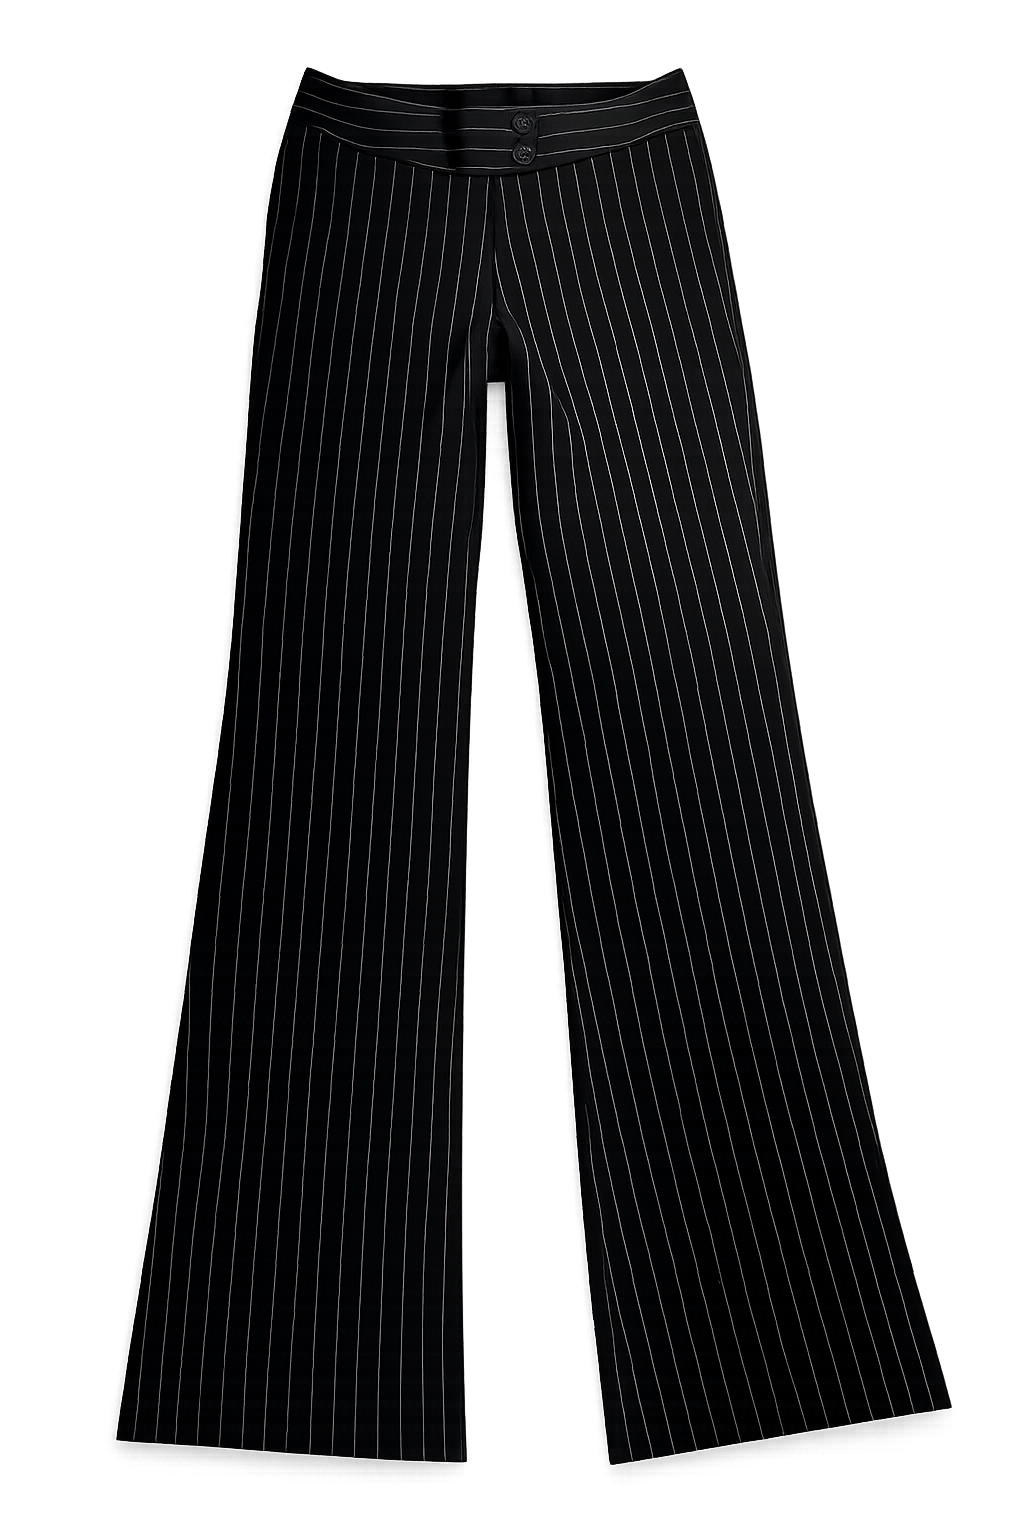
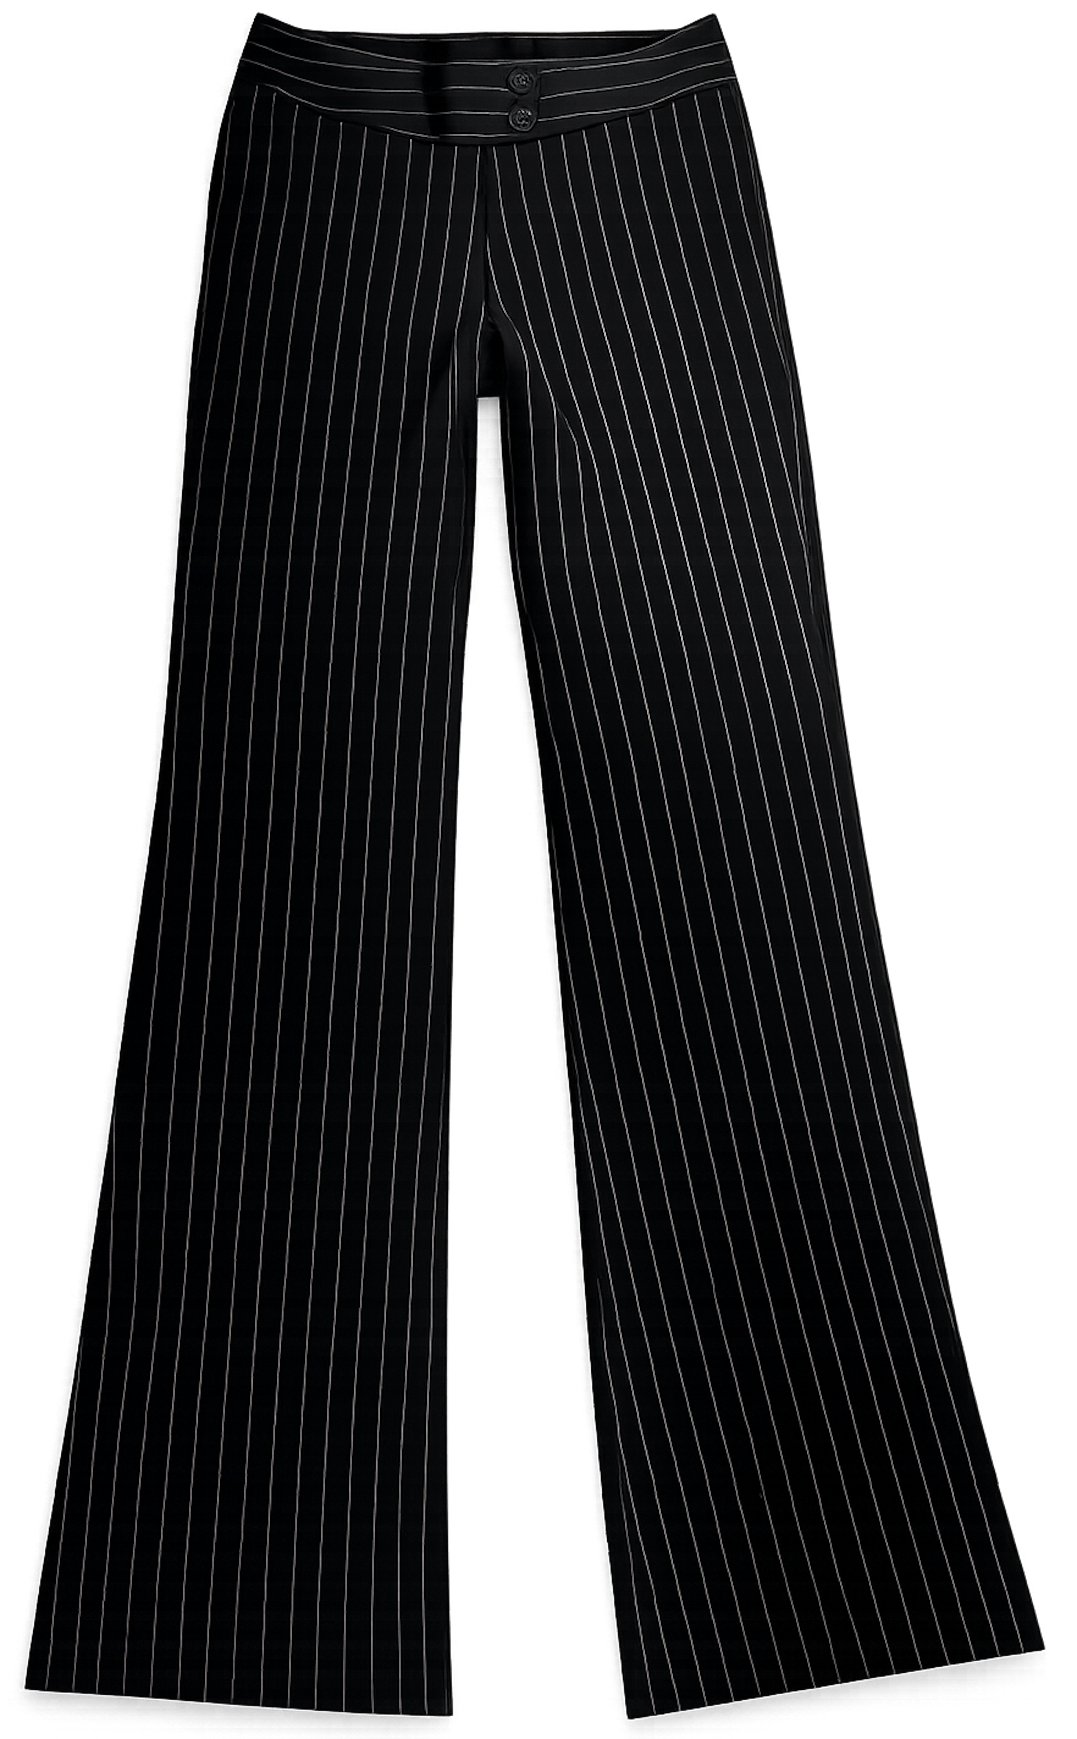
pictures

Changed region(s): [[0.0, 0.0, 0.9688, 1.0]]

diff --git a/collage.py b/collage.py
@@ -15,10 +15,10 @@ LAYOUT_MAP = {
     "HAT": {"pos": (250, 10), "max_size": 260},
 
     "TOP": {"pos": (180, 120), "max_size": 420},
-    "LAY": {"pos": (150, 120), "max_size": 540},
+    "LAY": {"pos": (100, 120), "max_size": 540},
     "OUT": {"pos": (90, 90), "max_size": 560},
 
-    "BOT": {"pos": (200, 470), "max_size": 420},
+    "BOT": {"pos": (200, 470), "max_size": 600},
     "SHO": {"pos": (200, 800), "max_size": 520},
 
     "ACC": {"pos": (540, 320), "max_size": 210},
